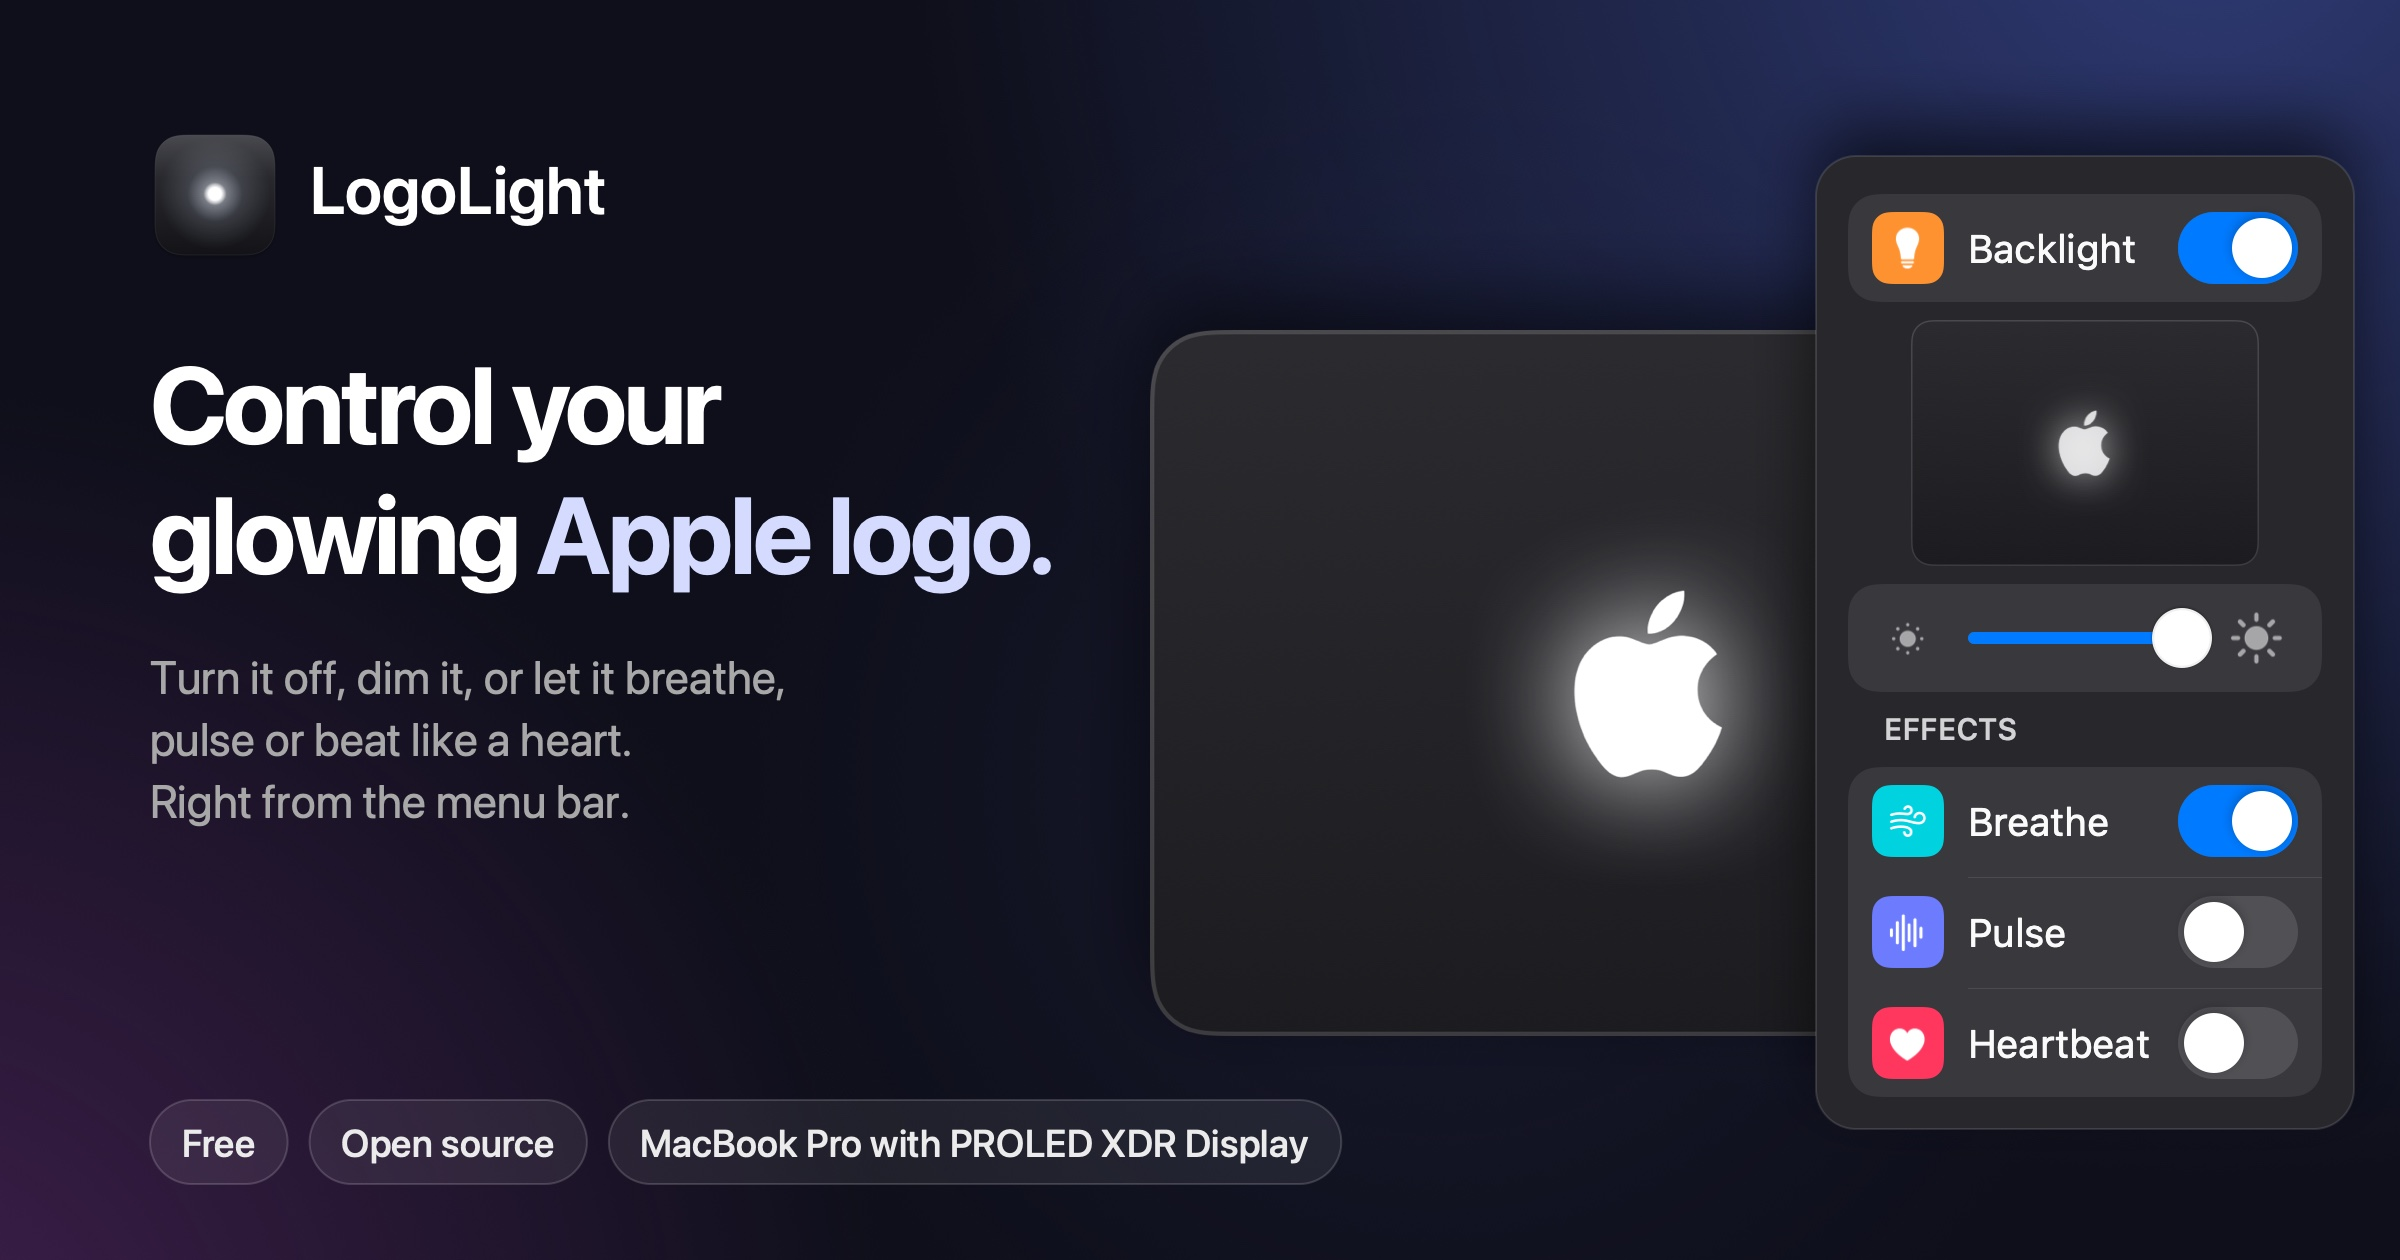
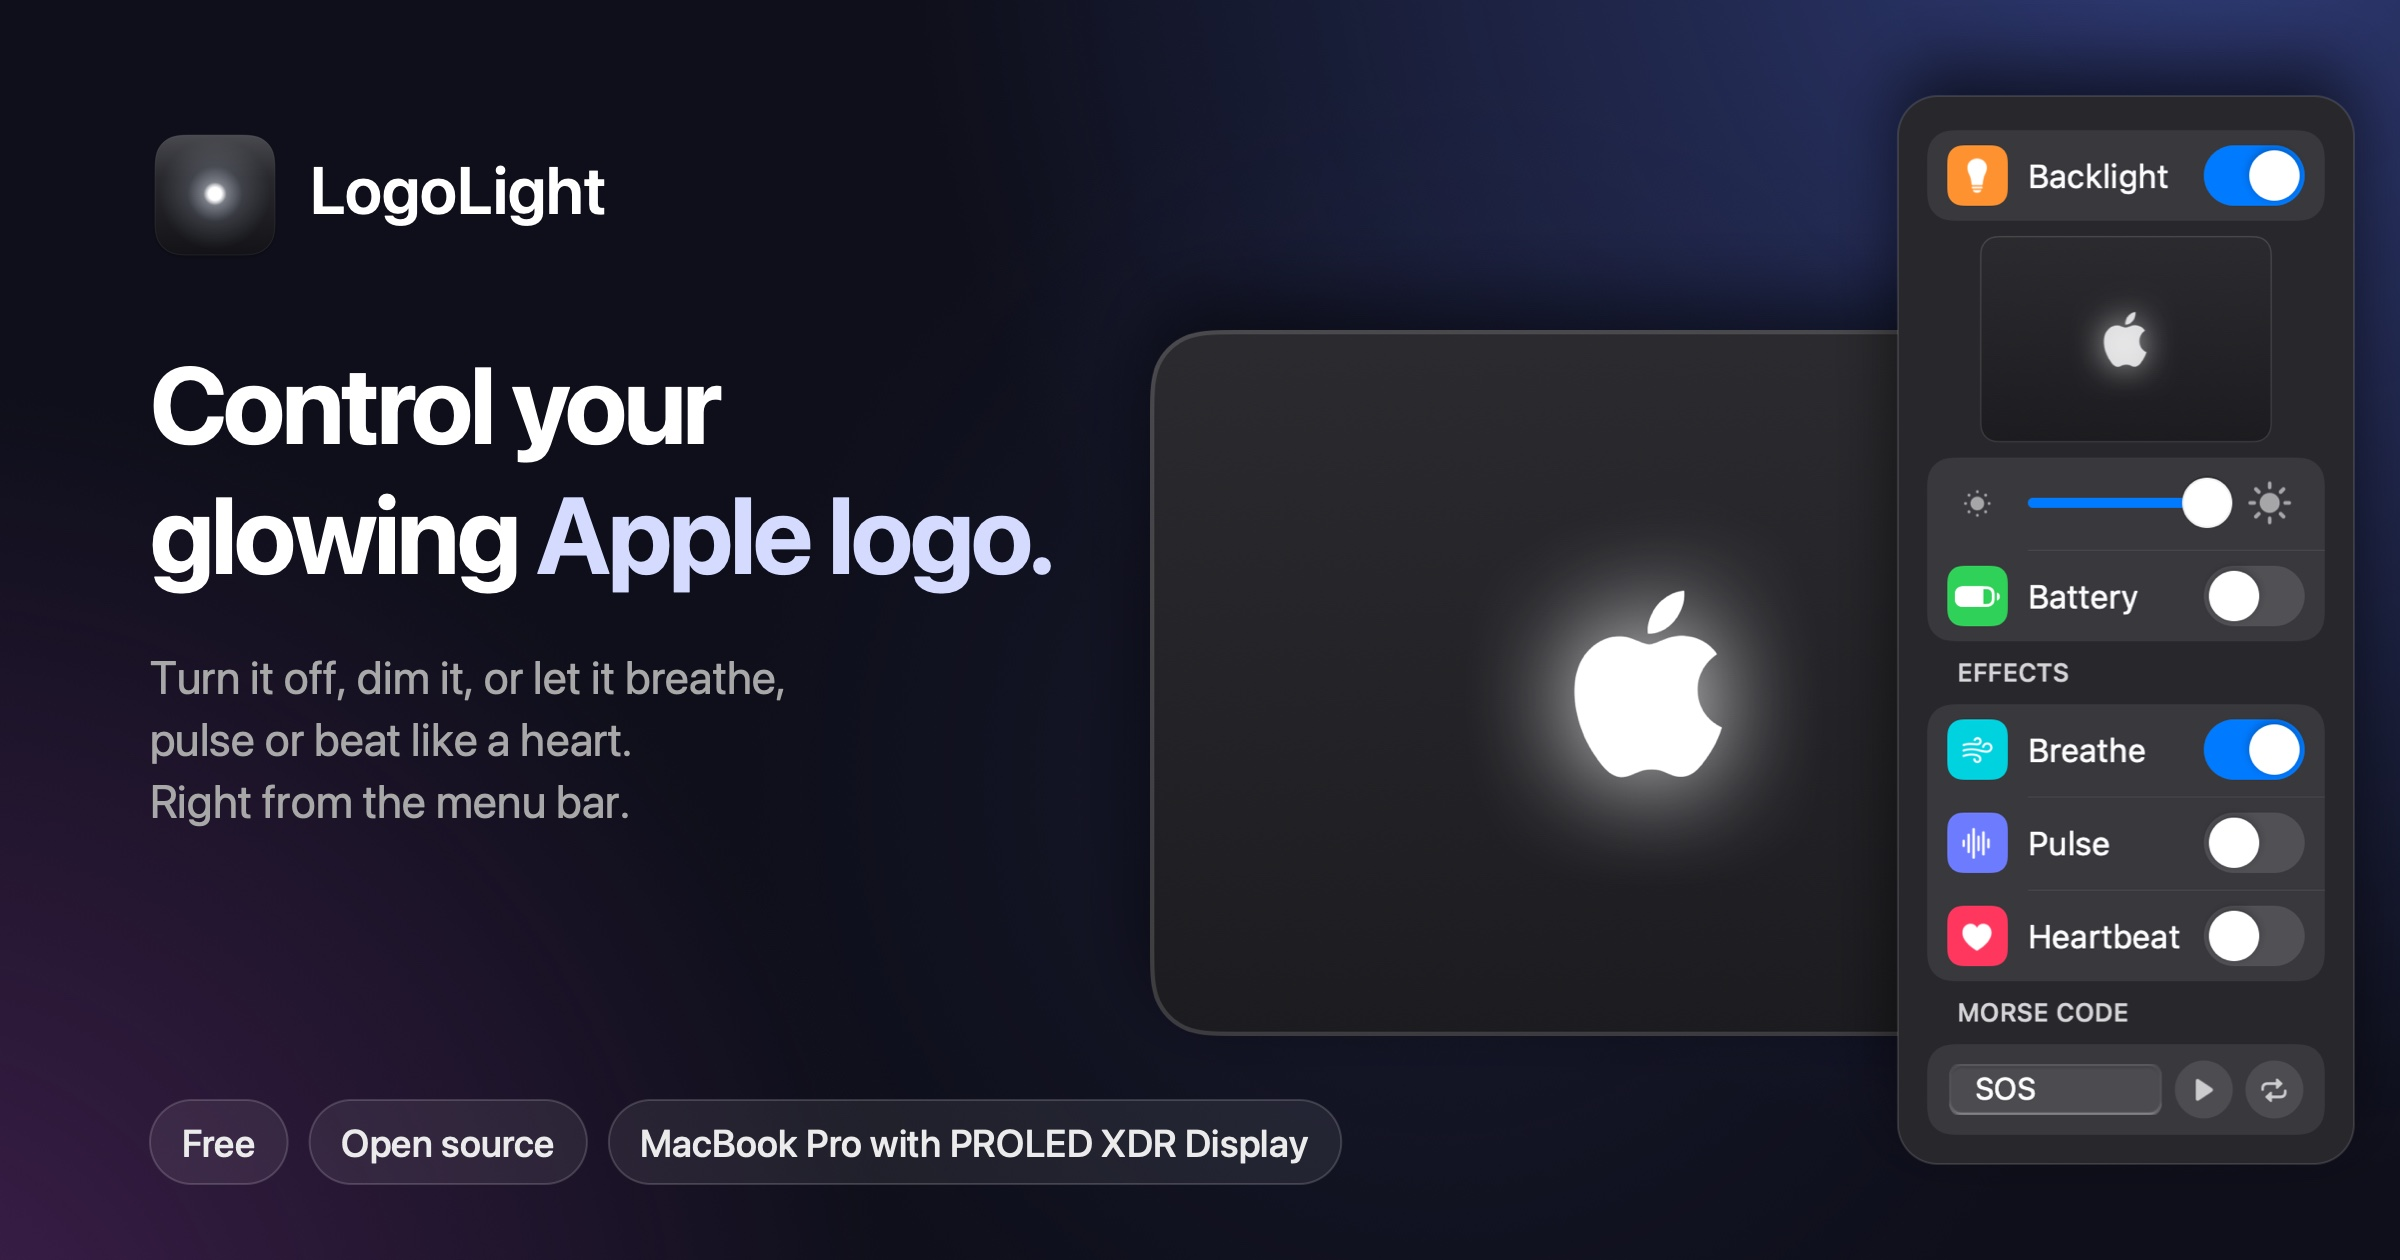
Show the 1.1.0 menu in the README and on the website
The menu gained the Battery switch and the Morse code card, so its pictures
are drawn again from the app's own renders: the README's banner and its
breathing menu GIF, and the site's hero and its on and off menus. The panel
is 413 points tall now, so the site's hero screen grows by the 98 points
it gained, the live view's glow is placed for the new height, and the
banner sizes the menu from its proportions instead of a fixed 945 pixels.

The site's menu section lists Battery and Morse code beside the other
features, three to a row with the last row centred.

Changed region(s): [[0.75, 0.3095, 0.9688, 0.9286], [0.75, 0.031, 1.0, 0.2476], [0.875, 0.2476, 0.9062, 0.3095]]

diff --git a/site/public/index.html b/site/public/index.html
@@ -123,6 +123,8 @@
       <symbol id="i-power" viewBox="0 0 24 24" fill="none" stroke="currentColor" stroke-width="2" stroke-linecap="round" stroke-linejoin="round"><path d="M12 3v8"/><path d="M6.4 6.6a8 8 0 1 0 11.2 0"/></symbol>
       <symbol id="i-sun" viewBox="0 0 24 24" fill="none" stroke="currentColor" stroke-width="2" stroke-linecap="round"><circle cx="12" cy="12" r="4"/><path d="M12 2.5v2M12 19.5v2M2.5 12h2M19.5 12h2M5.3 5.3l1.4 1.4M17.3 17.3l1.4 1.4M5.3 18.7l1.4-1.4M17.3 6.7l1.4-1.4"/></symbol>
       <symbol id="i-wave" viewBox="0 0 24 24" fill="none" stroke="currentColor" stroke-width="2" stroke-linecap="round" stroke-linejoin="round"><path d="M2 12h3l2.5-6 4 13 3.5-10 2 3h5"/></symbol>
+      <symbol id="i-battery" viewBox="0 0 24 24" fill="none" stroke="currentColor" stroke-width="2" stroke-linecap="round" stroke-linejoin="round"><rect x="2" y="7" width="17" height="10" rx="2.5"/><path d="M22 10.5v3"/><rect x="5" y="10" width="8" height="4" rx="1" fill="currentColor" stroke="none"/></symbol>
+      <symbol id="i-morse" viewBox="0 0 24 24" fill="none" stroke="currentColor" stroke-width="3.4" stroke-linecap="round"><path d="M4 12h0M9.5 12h5M20 12h0"/></symbol>
       <symbol id="i-option" viewBox="0 0 24 24" fill="none" stroke="currentColor" stroke-width="2" stroke-linecap="round" stroke-linejoin="round"><path d="M3 6.5h5.5l7 11H21M14 6.5h7"/></symbol>
       <symbol id="i-login" viewBox="0 0 24 24" fill="none" stroke="currentColor" stroke-width="2" stroke-linecap="round" stroke-linejoin="round"><path d="M13 4h5a2 2 0 0 1 2 2v12a2 2 0 0 1-2 2h-5"/><path d="M3 12h11M10.5 8.5 14 12l-3.5 3.5"/></symbol>
       <symbol id="i-key" viewBox="0 0 24 24" fill="none" stroke="currentColor" stroke-width="2" stroke-linecap="round" stroke-linejoin="round"><circle cx="7.5" cy="16.5" r="3.5"/><path d="M10 14 20 4M16.5 7.5l2.5 2.5M14 10l2 2"/></symbol>
@@ -187,7 +189,7 @@
             <!-- The menu is a real render of LogoLight's panel (LOGOLIGHT_RENDER_PANEL, see PanelRenderer), with the
                  live view unlit; the menu bar, the menu's frame and its two plain items are drawn here, as the app shows
                  them. The live view's light (LOGOLIGHT_RENDER_LIGHT) is laid over the lid and faded with Breathe's timing. -->
-            <div class="screen" role="img" aria-label="LogoLight's menu, open below its icon in the menu bar. At the top, the Backlight switch is on. Below it, the live view of the lid, with the Apple logo glowing and slowly breathing, then the brightness slider near full, and of the effects Breathe, Pulse and Heartbeat, Breathe is on. Then Launch at Login, checked, and Quit LogoLight.">
+            <div class="screen" role="img" aria-label="LogoLight's menu, open below its icon in the menu bar. At the top, the Backlight switch is on. Below it, the live view of the lid, with the Apple logo glowing and slowly breathing, then the brightness slider near full and the Battery switch, and of the effects Breathe, Pulse and Heartbeat, Breathe is on. Below them, Morse code: a message field with play and loop buttons. Then Launch at Login, checked, and Quit LogoLight.">
               <div class="menubar">
                 <span class="status status-open">
                   <img class="status-icon" src="images/menubar-icon.png" width="12" height="17" alt="">
@@ -195,7 +197,7 @@
                     <span class="menu-panel">
                       <picture>
                         <source srcset="images/menu-breathe-dark.png" media="(prefers-color-scheme: dark)">
-                        <img src="images/menu-breathe-light.png" width="850" height="1575" alt="" fetchpriority="high">
+                        <img src="images/menu-breathe-light.png" width="850" height="2065" alt="" fetchpriority="high">
                       </picture>
                       <span class="glow anim-breathe">
                         <img class="halo" src="images/lid-light-696.png" width="696" height="492" alt="">
@@ -333,7 +335,7 @@
             <span class="menu menu-alone">
               <picture>
                 <source srcset="images/menu-on-dark.png" media="(prefers-color-scheme: dark)">
-                <img src="images/menu-on-light.png" width="850" height="1575" alt="LogoLight's menu with the logo on: the Backlight switch on, the live view of the lid with the Apple logo glowing, the brightness slider at three quarters, and no effect switched on." loading="lazy" decoding="async">
+                <img src="images/menu-on-light.png" width="850" height="2065" alt="LogoLight's menu with the logo on: the Backlight switch on, the live view of the lid with the Apple logo glowing, the brightness slider at three quarters with the Battery switch off below it, no effect switched on, and the Morse code field with its play and loop buttons." loading="lazy" decoding="async">
               </picture>
             </span>
             <figcaption>On, at three quarters</figcaption>
@@ -342,7 +344,7 @@
             <span class="menu menu-alone">
               <picture>
                 <source srcset="images/menu-off-dark.png" media="(prefers-color-scheme: dark)">
-                <img src="images/menu-off-light.png" width="850" height="1575" alt="LogoLight's menu with the logo off: the Backlight switch is off, the live view of the lid is dark, and the slider and effect switches below it are greyed out, keeping their settings." loading="lazy" decoding="async">
+                <img src="images/menu-off-light.png" width="850" height="2065" alt="LogoLight's menu with the logo off: the Backlight switch is off, the live view of the lid is dark, and the slider, the Battery switch, the effect switches and Morse code below it are greyed out, keeping their settings." loading="lazy" decoding="async">
               </picture>
             </span>
             <figcaption>Off, the rest greyed out</figcaption>
@@ -364,6 +366,16 @@
             <span class="tile tile-pink"><svg aria-hidden="true" focusable="false"><use href="#i-wave"/></svg></span>
             <h3>Effects</h3>
             <p>Breathe, Pulse or Heartbeat, one at a time. Switch one off and the logo holds steady again.</p>
+          </li>
+          <li class="feature">
+            <span class="tile tile-green"><svg aria-hidden="true" focusable="false"><use href="#i-battery"/></svg></span>
+            <h3>Battery</h3>
+            <p>Turn on Battery, and the logo shows your charge: full brightness when the battery is full, dimming as it runs down.</p>
+          </li>
+          <li class="feature">
+            <span class="tile tile-indigo"><svg aria-hidden="true" focusable="false"><use href="#i-morse"/></svg></span>
+            <h3>Morse code</h3>
+            <p>Type a message and press play, and the logo flashes it in Morse code. Turn on loop to repeat it until you stop it.</p>
           </li>
         </ul>
       </div>

diff --git a/site/public/style.css b/site/public/style.css
@@ -547,9 +547,10 @@ strong {
   position: relative;
 }
 
+/* Tall enough for the menu bar and the whole menu below it: the panel is 413 points tall. */
 .screen {
   position: relative;
-  height: calc(var(--pt) * 457);
+  height: calc(var(--pt) * 555);
   overflow: hidden;
   border-radius: var(--radius-lg);
   background: var(--wallpaper);
@@ -645,12 +646,12 @@ strong {
   height: auto;
 }
 
-/* The lid inside the panel: 116 × 82 points at (27, 50), in a panel 170 × 315 points. The renderer prints
+/* The lid inside the panel: 116 × 82 points at (27, 50), in a panel 170 × 413 points. The renderer prints
    these (LOGOLIGHT_RENDER_GLOWS); update them with the panel pictures. */
 .menu-panel .glow {
-  inset: 15.873% auto auto 15.8824%;
+  inset: 12.1065% auto auto 15.8824%;
   width: 68.2353%;
-  height: 26.0317%;
+  height: 19.8547%;
 }
 
 .menu-sep {
@@ -1141,9 +1142,16 @@ strong {
   list-style: none;
 }
 
+/* Three to a row, and a shorter last row centred. */
 @media (min-width: 760px) {
   .trio {
-    grid-template-columns: repeat(3, minmax(0, 1fr));
+    display: flex;
+    flex-wrap: wrap;
+    justify-content: center;
+  }
+
+  .trio > .feature {
+    flex: 0 1 calc((100% - 2 * clamp(24px, 4vw, 48px)) / 3);
   }
 }
 

diff --git a/scripts/make-banner.swift b/scripts/make-banner.swift
@@ -78,7 +78,9 @@ cg.setShadow(offset: CGSize(width: 0, height: 30), blur: 80, color: rgb(0, 0, 0,
 lid.draw(in: lidRect, from: .zero, operation: .sourceOver, fraction: 1, respectFlipped: true, hints: nil)
 cg.restoreGState()
 
-let menuRect = CGRect(x: 1830, y: 170, width: 510, height: 945)
+// The menu in its own proportions, as tall as fits, with its right edge where it always was.
+let menuHeight = 1040.0, menuWidth = menuHeight * menu.size.width / menu.size.height
+let menuRect = CGRect(x: 2340 - menuWidth, y: 110, width: menuWidth, height: menuHeight)
 let window = CGPath(roundedRect: menuRect.insetBy(dx: -14, dy: -14), cornerWidth: 40, cornerHeight: 40, transform: nil)
 cg.saveGState()
 cg.setShadow(offset: CGSize(width: 0, height: 30), blur: 70, color: rgb(0, 0, 0, 0.6))

diff --git a/README.md b/README.md
@@ -21,7 +21,7 @@
     <td width="290" align="center" valign="middle">
       <picture>
         <source media="(prefers-color-scheme: dark)" srcset="docs/media/menu-breathe-dark.gif">
-        <img src="docs/media/menu-breathe-light.gif" width="255" alt="LogoLight's menu with the Backlight switch on and Breathe switched on: the live view of the lid shows the Apple logo slowly glowing, fading out and glowing again, above the brightness slider and the effect switches.">
+        <img src="docs/media/menu-breathe-light.gif" width="255" alt="LogoLight's menu with the Backlight switch on and Breathe switched on: the live view of the lid shows the Apple logo slowly glowing, fading out and glowing again, above the brightness slider, the Battery switch, the effect switches and Morse code.">
       </picture>
     </td>
     <td valign="middle">
